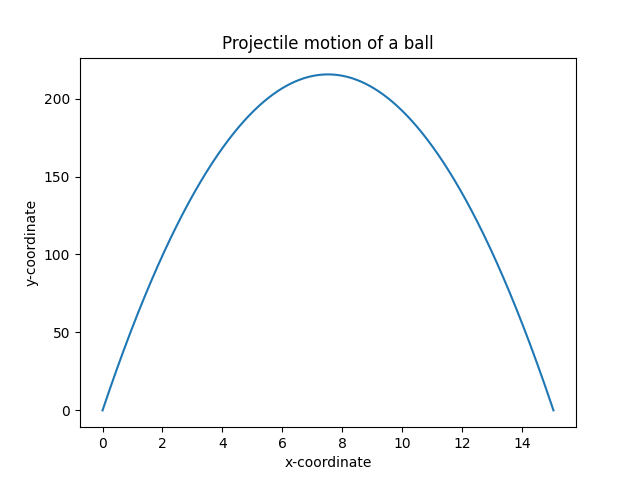
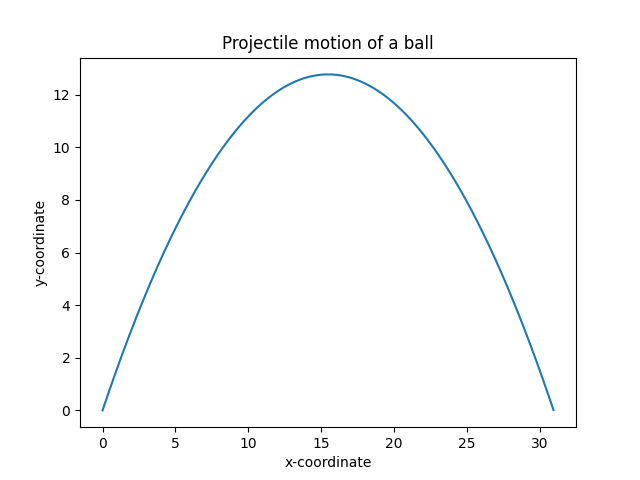
math with python chap 02
updated scripts

diff --git a/atharva_puranik/chap_02/plotting_by_using_projectile_motion_and randomizing_function_with_matplotlib_and_pyplot_13.py b/atharva_puranik/chap_02/plotting_by_using_projectile_motion_and randomizing_function_with_matplotlib_and_pyplot_13.py
@@ -1,0 +1,65 @@
+# plotting trajectory by using projectile motion and randomizing values with pyplot and matplotlib in python with IDLE
+# chapter 02 -- math with python
+# programmer - Atharva Puranik
+
+from matplotlib import pyplot as plt
+import math
+import random
+
+
+# Drawing Graph
+def draw_graph(x, y):
+    plt.plot(x, y)
+    plt.xlabel('x-coordinate')
+    plt.ylabel('y-coordinate')
+    plt.title('Projectile motion of a ball')
+    filename = 'plotting_trajectory_by_using_projectile_motion_12.png'
+    plt.savefig('plotting trajectory using projectile motion 12.png')
+    print("file",filename,"successfully created")
+
+# Generating equally spaced floating point numbers
+def f_range(start, final, interval):
+    numbers = []
+    while start < final:
+        numbers.append(start)
+        start = start + interval
+    return numbers
+
+def draw_trajectory(u, theta):
+    theta = math.radians(theta)
+    acceleration_due_to_gravity_g = 9.8
+
+    # Time of flight
+    time_of_flight = 2*u*math.sin(theta)/acceleration_due_to_gravity_g
+
+    # Finding time intervals
+    time_intervals = f_range(0, time_of_flight, 0.001)
+
+    # Listing x and y coordinates
+    x = []
+    y = []
+
+    for t in time_intervals:
+        x.append(u*math.cos(theta)*t)
+        y.append(u*math.sin(theta)*t - 0.5*acceleration_due_to_gravity_g*t*t)
+
+    # Random color for each plot
+    color = random.choice(['red', 'green', 'blue', 'orange', 'purple'])
+
+    # Graph creation
+    draw_graph(x, y)
+
+if __name__ == '__main__':
+
+    # Random initla velocity (between 10 and 50m/s)
+    u = random.uniform(10, 50)
+
+    # Random angle (between 20 and 80 degree)
+    theta = random.uniform(20, 80)
+
+    print(f"randomized initial velocity: {u:.2f} m/s")
+    print(f"Randomized angle: {theta:.2f}°")
+
+    draw_trajectory(u, theta)
+    plt.show()
+
